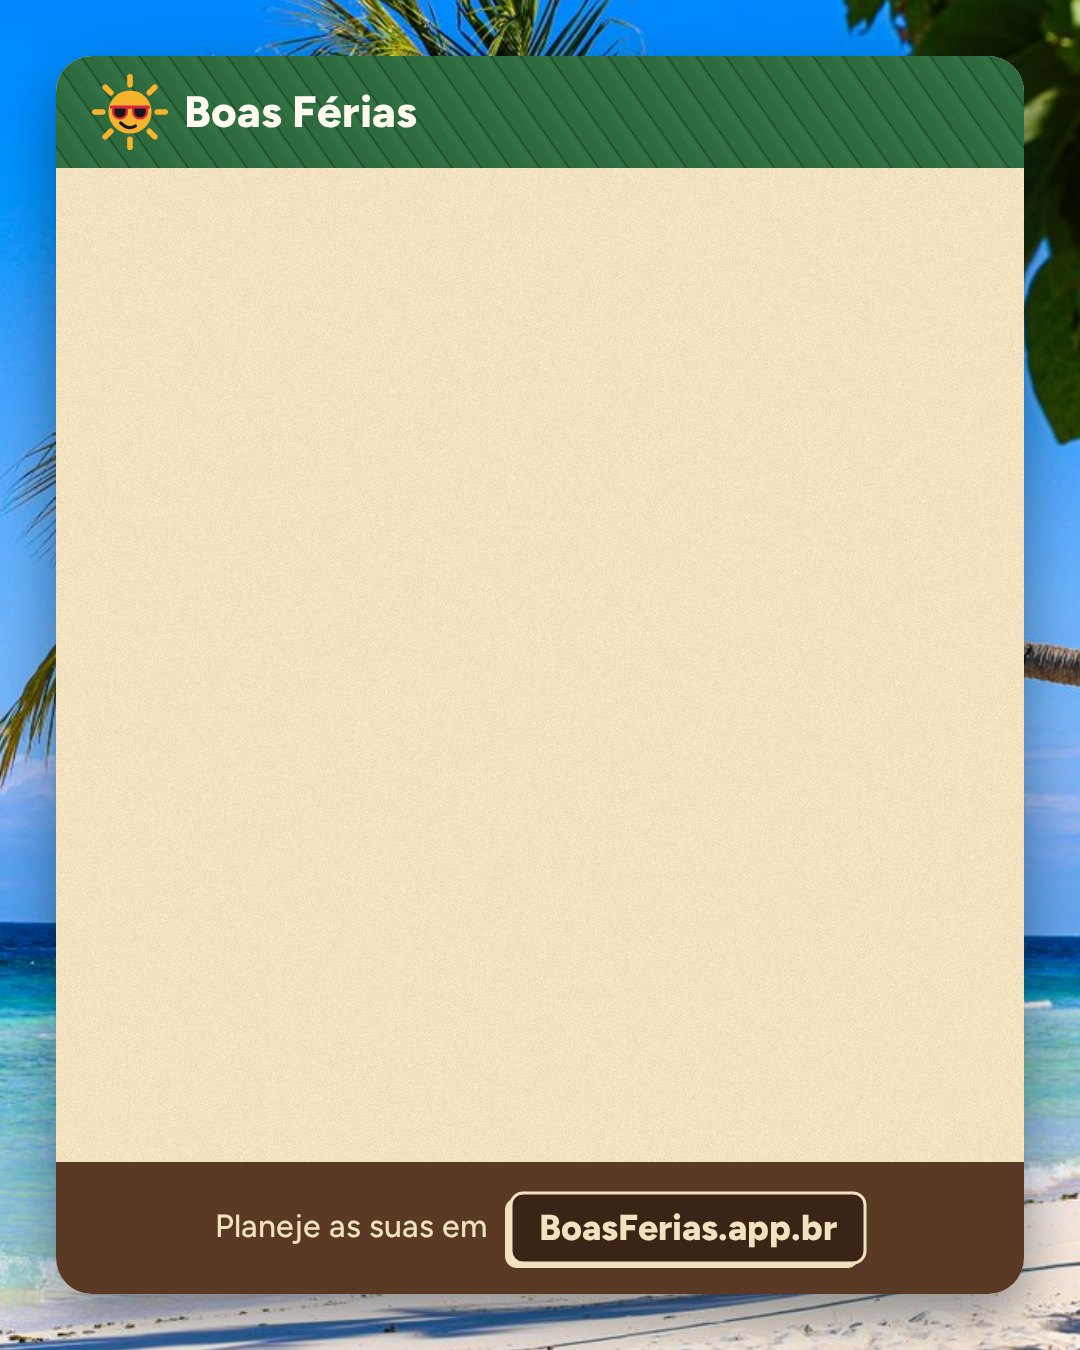
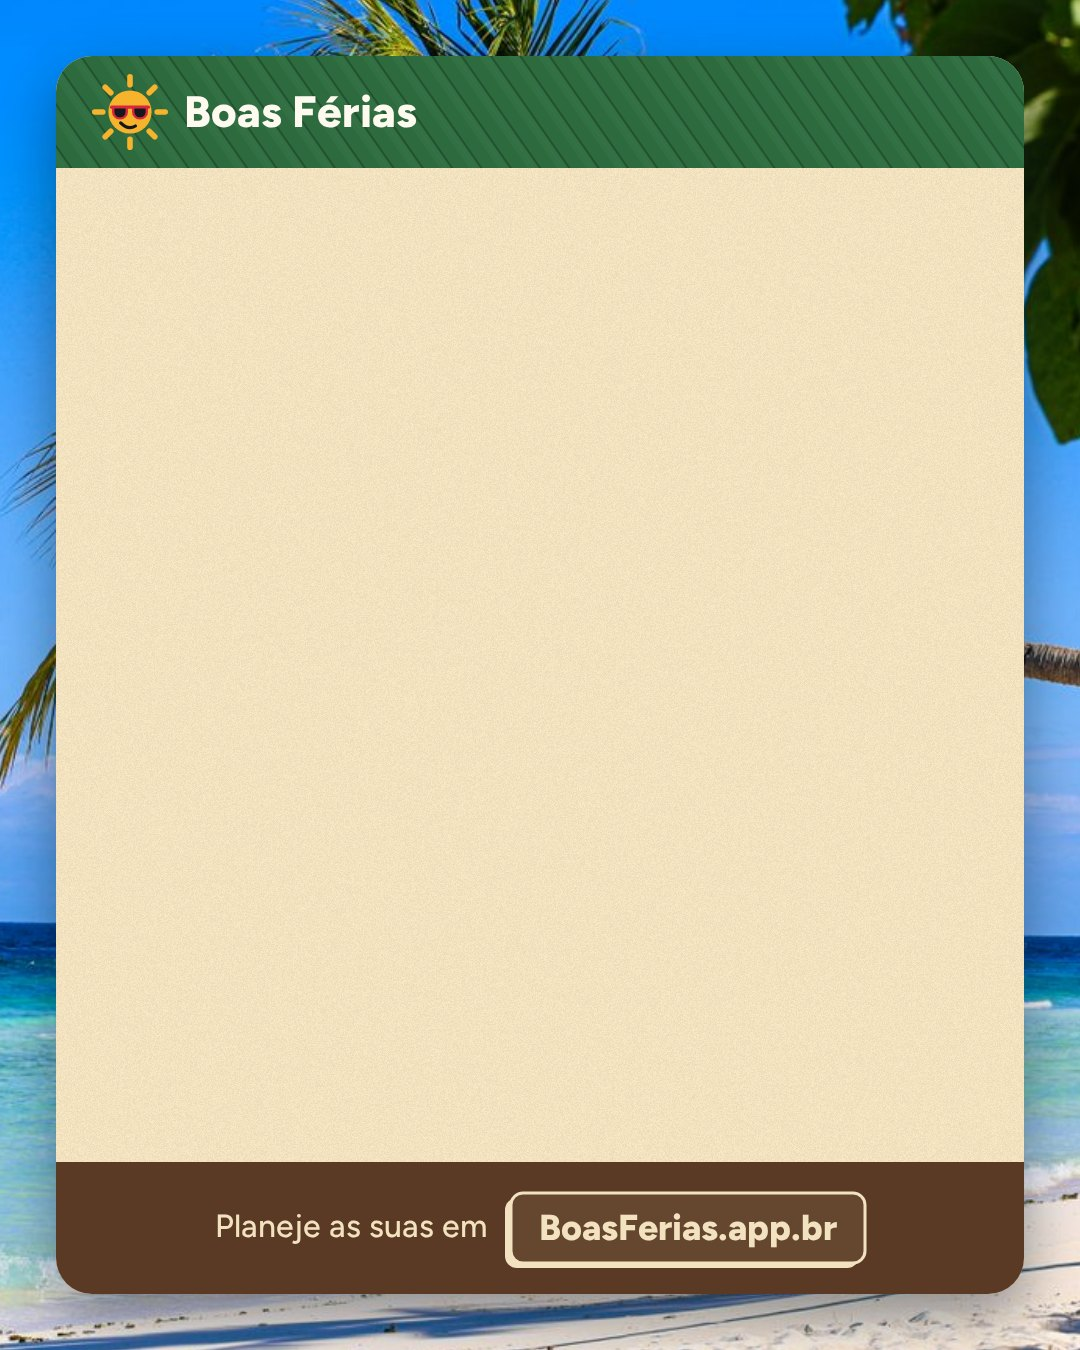
Raised buttons a step lighter than the trunk, in the share image too
The fill was coconut shell, darker than the trunk under it; now it is the
trunk with 8% sand (#65462f), so the button floats off it. Sand text 6.7:1.

Changed region(s): [[0.4583, 0.8711, 0.825, 0.9333]]

diff --git a/apps/web/e2e/planner.spec.ts b/apps/web/e2e/planner.spec.ts
@@ -50,13 +50,13 @@ const jpegSize = (jpeg: Buffer) => {
 const isSea = ([r, g, b]: number[]) => r <= 25 && g >= 35 && g <= 95 && b >= 60 && b <= 140;
 
 test.describe('before the first click', () => {
-  test('raised buttons are filled with coconut shell, so the trunk never shows through', async ({
+  test('raised buttons are filled a step lighter than the trunk, so they float off it', async ({
     page,
   }) => {
     const fill = await page
       .getByRole('button', { name: 'Ver melhores datas' })
       .evaluate((button) => getComputedStyle(button).backgroundColor);
-    expect(fill).toBe('rgb(58, 36, 22)');
+    expect(fill).toBe('rgb(101, 70, 47)');
   });
 
   test('taps show no blue browser highlight', async ({ page }) => {

diff --git a/apps/web/src/styles.css b/apps/web/src/styles.css
@@ -14,7 +14,7 @@
   --line: #dcc597;
   --edge: #8a7350;
   --trunk: #5a3a24;
-  --husk: #3a2416;
+  --husk: #65462f;
   --coconut: #fffaf0;
   /* Halfway sand-to-coconut in OKLab: flat boxes inside a grained card (periods, legend, months). */
   --sand-light: #f9eed8;
